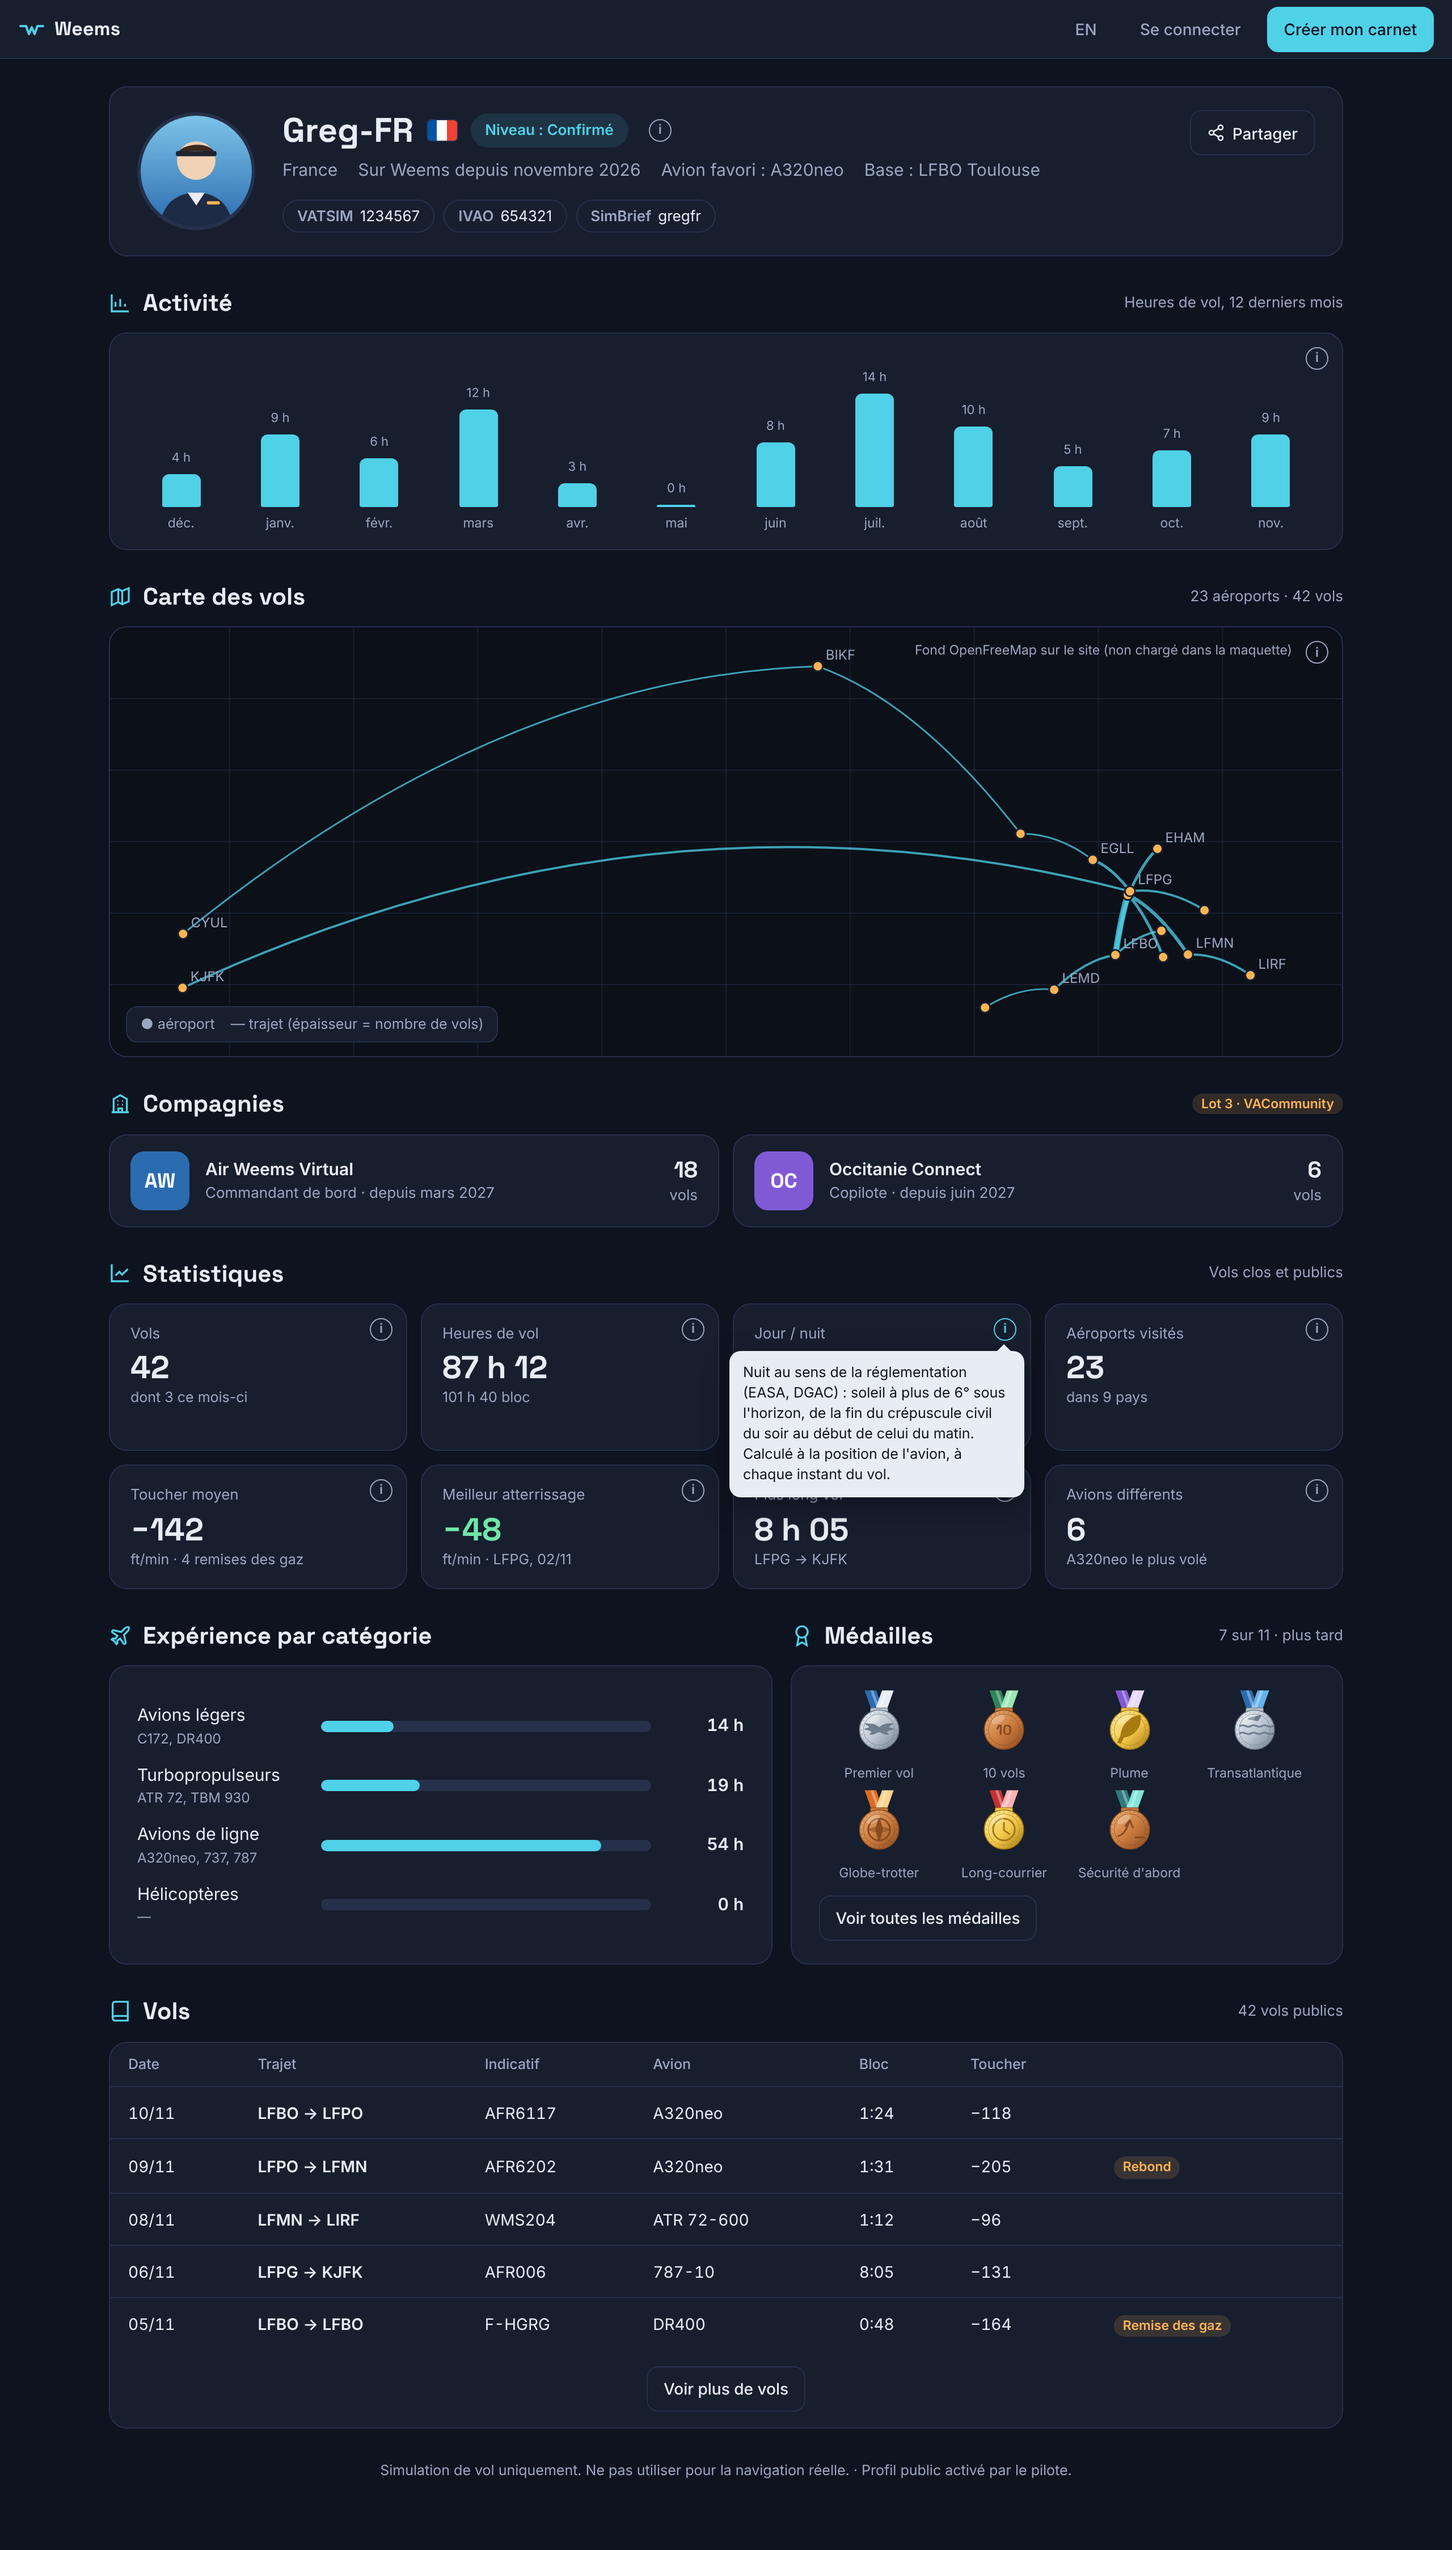
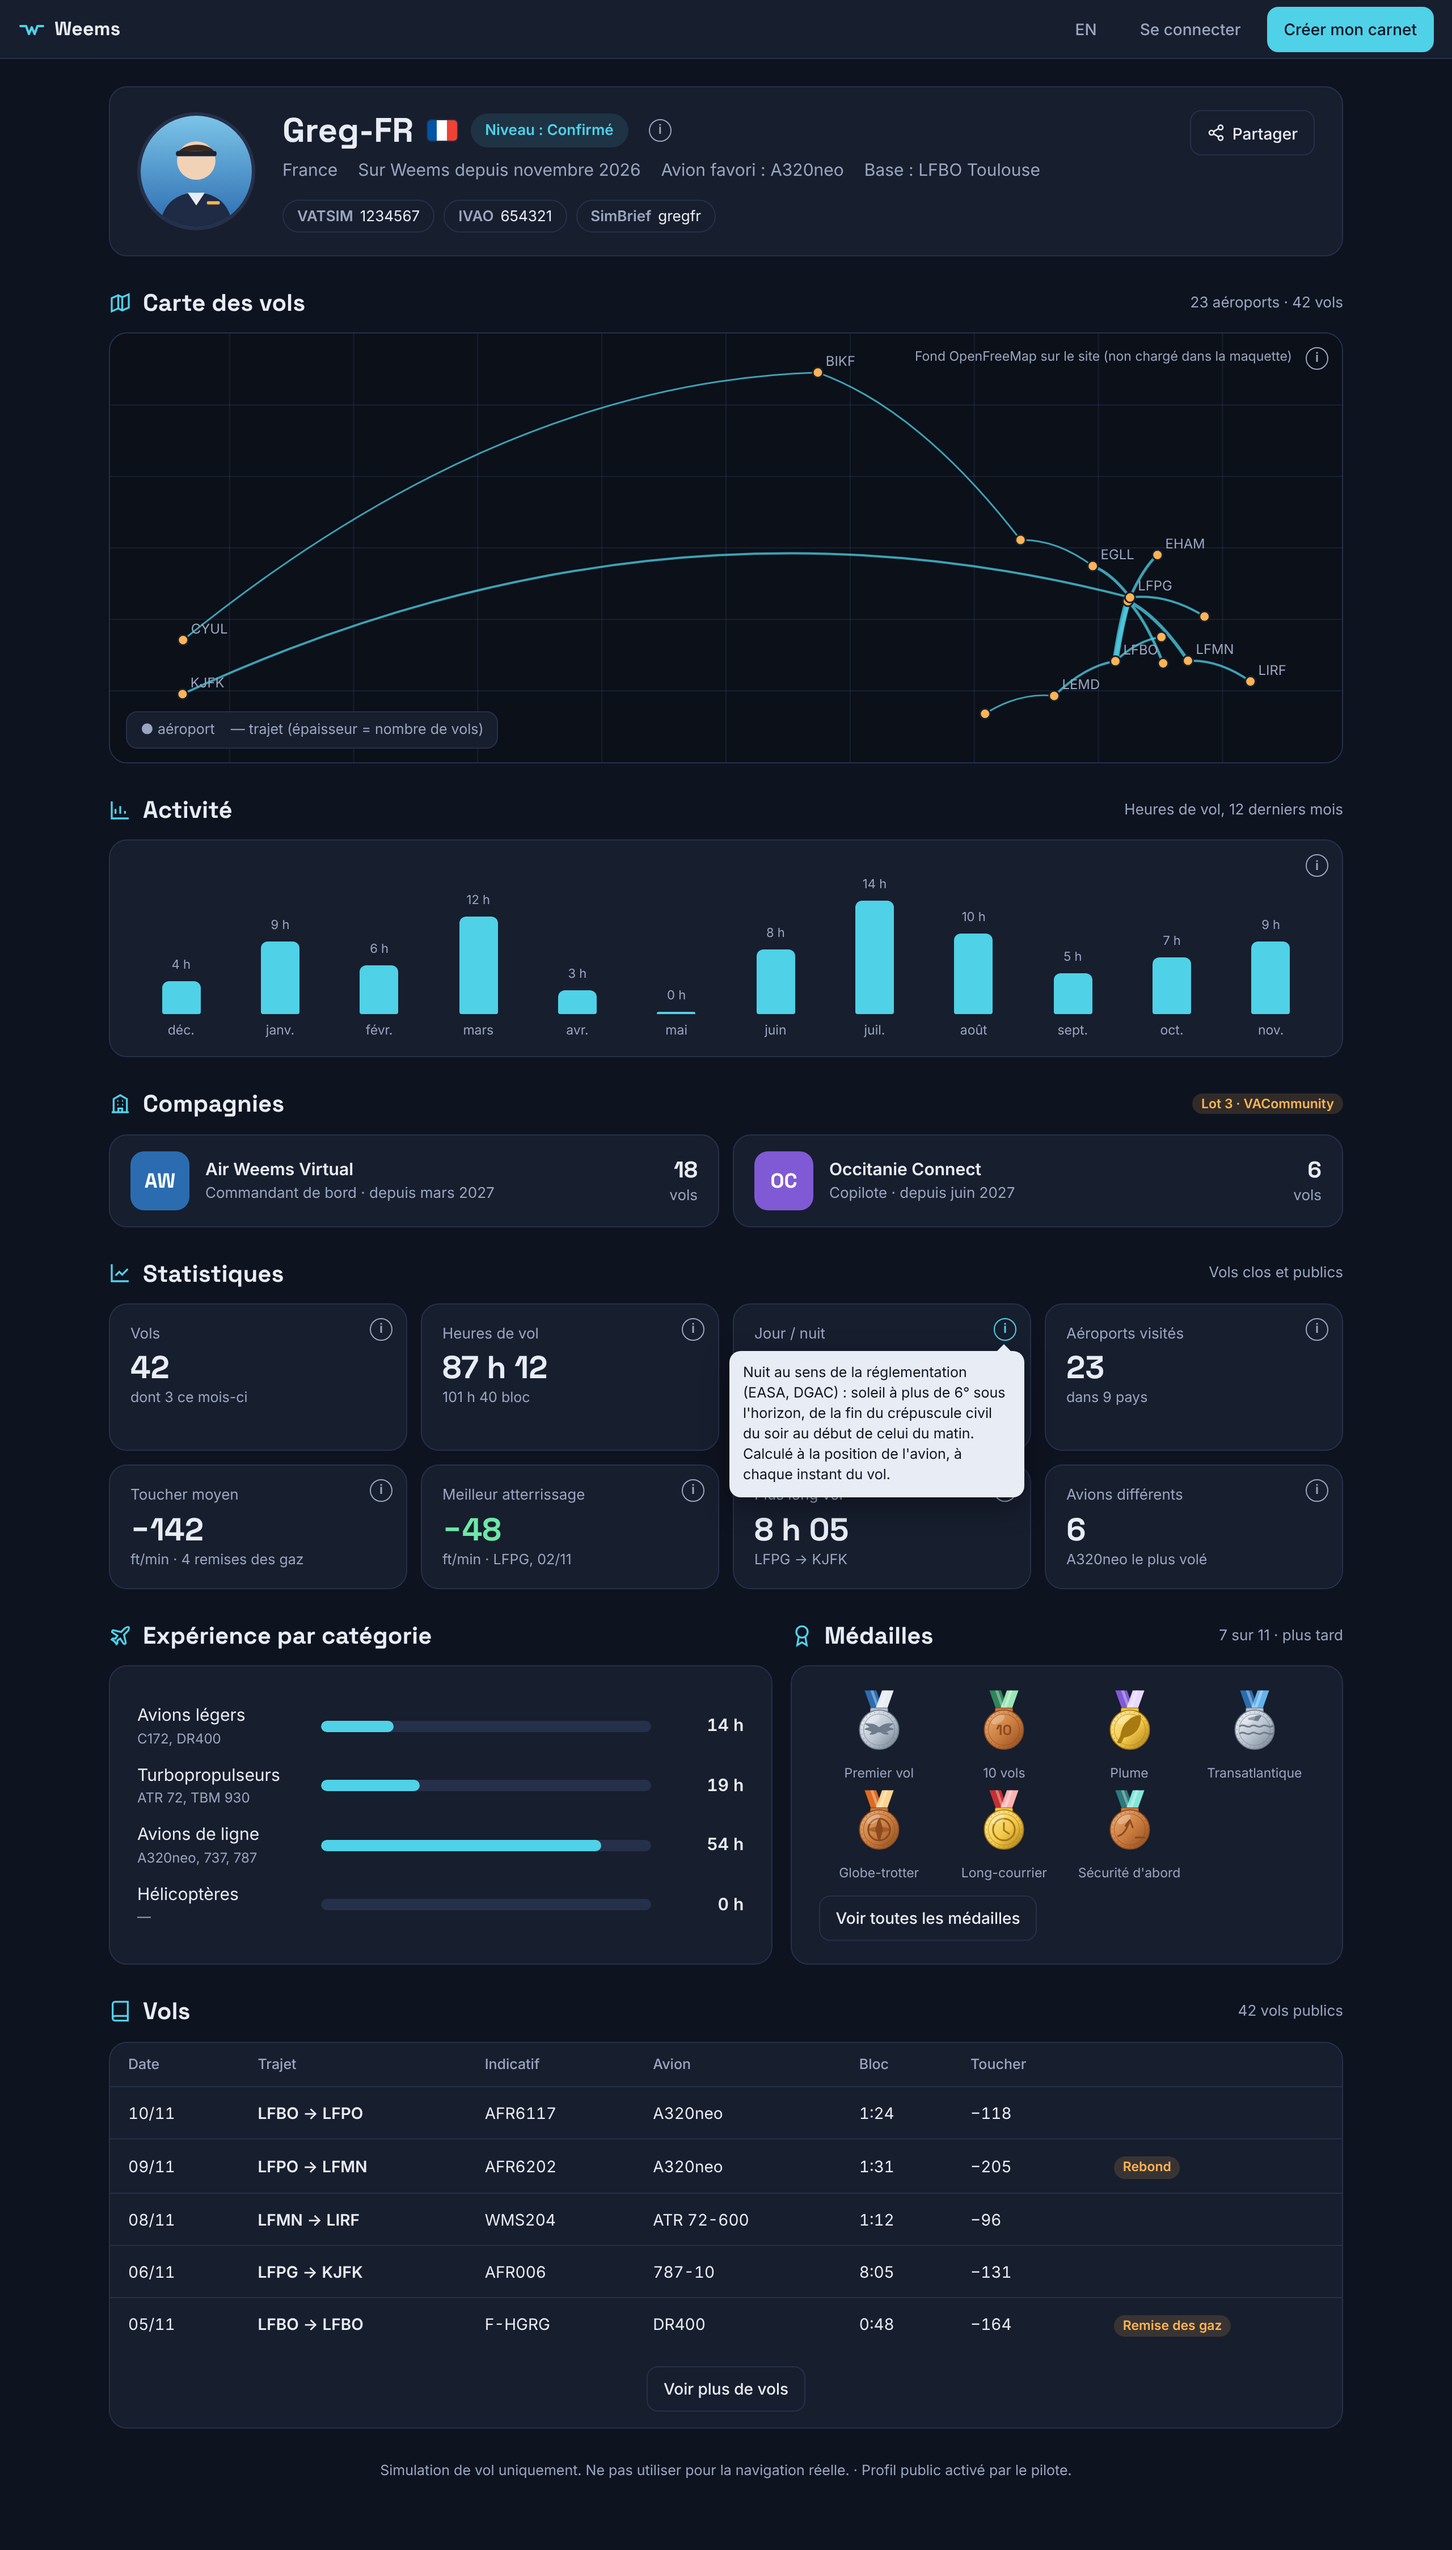
docs(j4): activité sous la carte des vols
Claude-Session: https://claude.ai/code/session_01N46qzV3MxXmsdYZrydt2jy

diff --git a/docs/cahiers-des-charges/spec-J4-profil-public.md b/docs/cahiers-des-charges/spec-J4-profil-public.md
@@ -62,7 +62,7 @@ Règles :
 
 **Profil** (`/pilots/{handle}`)
 
-Ordre des blocs (validé avec Greg sur la maquette) : en-tête ; activité ; carte des vols ; compagnies (lot 3) ; statistiques ; expérience par catégorie et médailles côte à côte (toutes deux plus tard) ; liste des vols.
+Ordre des blocs (validé avec Greg sur la maquette) : en-tête ; carte des vols ; activité ; compagnies (lot 3) ; statistiques ; expérience par catégorie et médailles côte à côte (toutes deux plus tard) ; liste des vols.
 
 - En-tête : photo (initiales à défaut), pseudo, drapeau et nom du pays, niveau déclaré, « sur Weems depuis » (création du compte), avion le plus volé, liens vers les pages VATSIM et IVAO du pilote, bouton « Partager ».
 - Statistiques : nombre de vols, heures de vol (temps en vol) et heures bloc, aéroports différents visités, nombre d'avions différents, taux de chute moyen au toucher et meilleur atterrissage (le plus doux), plus long vol, nombre de remises des gaz, heures de jour et de nuit.
